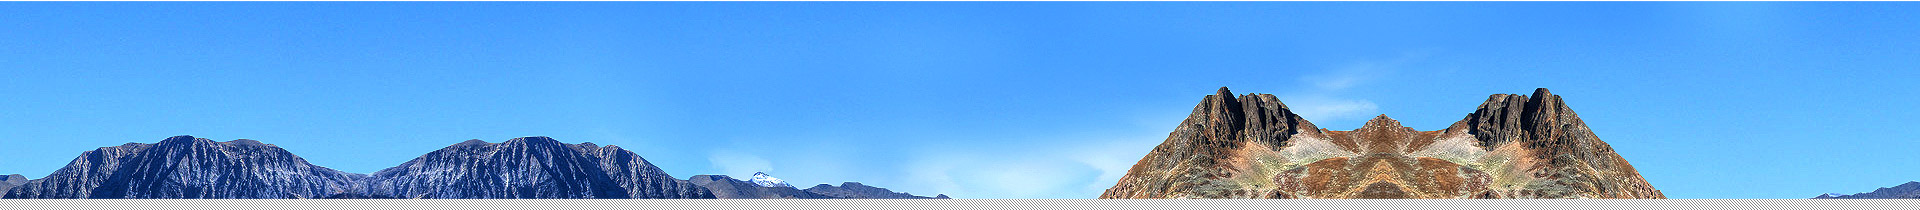
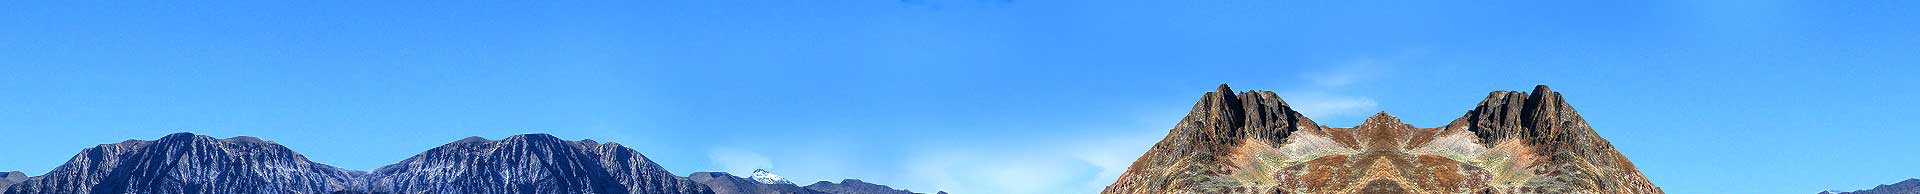
toububanner

Changed region(s): [[0.0, 0.4021, 1.0, 1.0], [0.0, 0.0, 1.0, 0.0309], [0.5, 0.7732, 0.5312, 0.8351]]

diff --git a/css/basalt.css b/css/basalt.css
@@ -1,1 +1,1 @@
-.materi{padding-top:10px}.material-a{float:right;padding-top:30px;display:none}@media (min-width: 600px){.material-a{display:block}}.material-a a{padding-left:10px;padding-right:10px}.banner img{width:100%}.material-b{background:#004286;color:#fff;line-height:40px}@media (max-width: 1199px){.material-b{line-height:24px;padding-top:10px;padding-bottom:10px}}.material-b li{display:inline}.material-b li a{padding-left:2px;padding-right:2px;color:#fff}.material-b li a:hover{color:#ef011c}.material-c{padding-top:18px;padding-bottom:25px;background:#f7f7f7}.material-c .material-c-1{padding-bottom:10px}@media (min-width: 1000px){.material-c .material-c-1{text-align:right;padding-bottom:0;border-right:1px solid #dddddd}}.material-c .material-c-1 .daodu{font-size:40px;font-weight:bold;color:#cd0a0a;line-height:50px}@media (min-width: 1000px) and (max-width: 1199px){.material-c .material-c-1 .intro{line-height:50px}}.material-d{padding-top:16px}@media (min-width: 1000px){.material-d{padding-top:25px}}.material-d h1 span{color:#cd0a0a}.material-d .gongyi{padding-top:15px;padding-bottom:10px}.material-d span{font-weight:bold}.material-d .jieduan{padding-top:8px;padding-bottom:15px}.material-d .shebei .shebei-a{display:none}@media (min-width: 450px){.material-d .shebei{background:#f1f1f1;margin-bottom:12px;height:147px}.material-d .shebei .shebei-a{background:#E85005;color:#ffffff;width:10%;float:left;text-align:center;height:147px;padding-top:36px;display:block}.material-d .shebei .shebei-b{width:30%;float:left;padding-top:20px}.material-d .shebei .shebei-b img{margin:0 auto;display:block}.material-d .shebei .shebei-b p{text-align:center;padding-top:15px}}@media (max-width: 449px){.material-d .shebei .shebei-b{padding-bottom:7px;width:33.3333%;float:left}}.material-d .shebei .shebei-a-1{display:block;padding-bottom:10px}.material-d .shebei .shebei-a-1 p{font-weight:bold}@media (min-width: 450px){.material-d .shebei .shebei-a-1{display:none}}.material-d .material-d-1 img{margin:0 auto;display:block}@media (min-width: 1000px) and (max-width: 1199px){.material-d .material-d-1 img{width:100%}}@media (max-width: 599px){.material-d .material-d-1 img{width:100%}}.material-e h1{padding-top:10px;padding-bottom:15px}.material-e h3,.material-e h4{padding-bottom:6px;padding-top:12px}.material-e .case-1,.material-e .case-2{margin-bottom:20px;margin-top:5px}.material-e .case-1 img,.material-e .case-2 img{width:100%}.material-f{background:#f1f1f1;padding-top:15px;margin-top:20px;padding-bottom:30px}.material-f h1{padding-bottom:15px;padding-top:10px}@media (min-width: 1200px){.material-f h1{padding-bottom:30px}}.material-f form .province,.material-f form .city{width:50%;float:left}.material-f form .province #province,.material-f form .province #city,.material-f form .city #province,.material-f form .city #city{width:90%}.material-f form .province #city,.material-f form .city #city{float:right}.material-f form .button{background:#ef2416;color:#ffffff}.material-f .pro-line h3{padding-bottom:20px}.material-f .pro-line p{line-height:34px}.material-g{padding-top:20px}.material-g span{color:#cd0a0a}.material-g h1{padding-bottom:15px}.material-g p{line-height:34px}.material-r{padding-top:20px;padding-bottom:10px}.material-r span{color:#cd0a0a}.material-r h1{padding-bottom:15px}.material-r img{margin:0 auto;display:block;width:100%}.material-r p{text-align:center;padding-top:5px;padding-bottom:10px}footer{background:#000000;color:#ffffff}footer p{line-height:30px;text-align:center;padding-top:10px;padding-bottom:10px}.kzha-table td{border:1px solid #16dbab;color:#16dbab;text-align:center;height:36px}.kzha-table tr:hover{background:#d8b66e}.kzha-table tr:hover td{color:#000000}
+.materi{padding-top:10px}.material-a{float:right;padding-top:30px;display:none}@media (min-width: 600px){.material-a{display:block}}.material-a a{padding-left:10px;padding-right:10px}.banner{background:url("../img-merge/banner.jpg");height:194px;position:relative;left:50%;transform:translateX(-50%);-webkit-transform:translateX(-50%);margin:0 auto;display:block}.contact{display:none;float:right;width:325px;height:194px;background:rgba(0,0,0,0.1);color:#ffffff;padding-left:30px;padding-top:30px}@media (min-width: 1000px){.contact{display:block}}.contact a{color:#ffffff}.contact .tel{font-size:26px;font-weight:bold;padding-top:20px}.contact .online{margin-top:30px;background:#ff453e;width:157px;padding-top:6px;padding-bottom:6px;text-align:center;border-radius:7px}.banner img{position:relative;left:50%;transform:translateX(-50%)}.banner .banner-wenzi h1{color:#ffffff;padding-top:16px;font-size:20px}@media (min-width: 500px){.banner .banner-wenzi h1{font-size:24px}}@media (min-width: 760px){.banner .banner-wenzi h1{padding-top:12px;font-size:32px}}@media (min-width: 1000px) and (max-width: 1199px){.banner .banner-wenzi h1{font-size:28px}}.banner .banner-wenzi h1 span{color:#f3f953}.banner .banner-wenzi .locat{color:#ffffff;padding-top:16px;font-size:14px}.banner .banner-wenzi .locat a{color:#ffffff}.banner .banner-wenzi .locat a:hover{color:#ffffff}.banner .banner-wenzi .america{color:#ffffff;padding-top:20px;font-size:16px}@media (min-width: 520px){.banner .banner-wenzi .america{padding-top:12px}}@media (min-width: 760px){.banner .banner-wenzi .america{font-size:16px;letter-spacing:6px}}.material-b{background:#004286;color:#fff;line-height:40px}@media (max-width: 1199px){.material-b{line-height:24px;padding-top:10px;padding-bottom:10px}}.material-b li{display:inline}.material-b li a{padding-left:2px;padding-right:2px;color:#fff}.material-b li a:hover{color:#ef011c}.material-c{padding-top:18px;padding-bottom:25px;background:#f7f7f7}.material-c .material-c-1{padding-bottom:10px}@media (min-width: 1000px){.material-c .material-c-1{text-align:left;padding-bottom:0}}.material-c .material-c-1 .daodu{font-size:40px;font-weight:bold;color:#cd0a0a;line-height:50px}@media (min-width: 1000px) and (max-width: 1199px){.material-c .material-c-1 .intro{line-height:50px}}.material-d{padding-top:16px}@media (min-width: 1000px){.material-d{padding-top:25px}}.material-d h1 span{color:#cd0a0a}.material-d .gongyi{padding-top:15px;padding-bottom:10px}.material-d span{font-weight:bold}.material-d .jieduan{padding-top:8px;padding-bottom:15px}.material-d .shebei .shebei-a{display:none}@media (min-width: 450px){.material-d .shebei{background:#f1f1f1;margin-bottom:12px;height:147px}.material-d .shebei .shebei-a{background:#E85005;color:#ffffff;width:10%;float:left;text-align:center;height:147px;padding-top:36px;display:block}.material-d .shebei .shebei-b{width:30%;float:left;padding-top:20px}.material-d .shebei .shebei-b img{margin:0 auto;display:block}.material-d .shebei .shebei-b p{text-align:center;padding-top:15px}}@media (max-width: 449px){.material-d .shebei .shebei-b{padding-bottom:7px;width:33.3333%;float:left}}.material-d .shebei .shebei-a-1{display:block;padding-bottom:10px}.material-d .shebei .shebei-a-1 p{font-weight:bold}@media (min-width: 450px){.material-d .shebei .shebei-a-1{display:none}}.material-d .material-d-1 img{margin:0 auto;display:block}@media (min-width: 1000px) and (max-width: 1199px){.material-d .material-d-1 img{width:100%}}@media (max-width: 599px){.material-d .material-d-1 img{width:100%}}.material-e h1{padding-top:10px;padding-bottom:15px}.material-e h3,.material-e h4{padding-bottom:6px;padding-top:12px}.material-e .case-1,.material-e .case-2{margin-bottom:20px;margin-top:5px}.material-e .case-1 img,.material-e .case-2 img{width:100%}.material-f{background:#f1f1f1;padding-top:15px;margin-top:20px;padding-bottom:30px}.material-f h1{padding-bottom:15px;padding-top:10px}@media (min-width: 1200px){.material-f h1{padding-bottom:30px}}.material-f form .province,.material-f form .city{width:50%;float:left}.material-f form .province #province,.material-f form .province #city,.material-f form .city #province,.material-f form .city #city{width:90%}.material-f form .province #city,.material-f form .city #city{float:right}.material-f form .button{background:#ef2416;color:#ffffff}.material-f .pro-line h3{padding-bottom:20px}.material-f .pro-line p{line-height:34px}.material-g{padding-top:20px}.material-g span{color:#cd0a0a}.material-g h1{padding-bottom:15px}.material-g p{line-height:34px}.material-r{padding-top:20px;padding-bottom:10px}.material-r span{color:#cd0a0a}.material-r h1{padding-bottom:15px}.material-r img{margin:0 auto;display:block;width:100%}.material-r p{text-align:center;padding-top:5px;padding-bottom:10px}footer{background:#000000;color:#ffffff}footer p{line-height:30px;text-align:center;padding-top:10px;padding-bottom:10px}.kzha-table td{border:1px solid #16dbab;color:#16dbab;text-align:center;height:36px}.kzha-table tr:hover{background:#d8b66e}.kzha-table tr:hover td{color:#000000}

diff --git a/sass/basalt.sass b/sass/basalt.sass
@@ -10,14 +10,82 @@
         padding-left: 10px
         padding-right: 10px
 .banner
+    background: url("../img-merge/banner.jpg")
+    height: 194px
+    position: relative
+    left: 50%
+    transform: translateX(-50%)
+    -webkit-transform: translateX(-50%)
+    margin: 0 auto
+    display: block
+.contact
+    display: none
+    @media (min-width: 1000px)
+        display: block
+    float: right
+    width: 325px
+    height: 194px
+    background: rgba(0,0,0,0.1)
+    color: #ffffff
+    padding-left: 30px
+    padding-top: 30px
+    a
+        color: #ffffff
+    .tel
+        font-size: 26px
+        font-weight: bold
+        padding-top: 20px
+    .online
+        margin-top: 30px
+        background: #ff453e
+        width: 157px
+        padding-top: 6px
+        padding-bottom: 6px
+        text-align: center
+        border-radius: 7px
+.banner
     img
-        width: 100%
+        position: relative
+        left: 50%
+        transform: translateX(-50%)
+    .banner-wenzi
+        h1
+            color: #ffffff
+            padding-top: 16px
+            font-size: 20px
+            @media (min-width: 500px)
+                font-size: 24px
+            @media (min-width: 760px)
+                padding-top: 12px
+                font-size: 32px
+            @media (min-width: 1000px) and (max-width: 1199px)
+                font-size: 28px
+            span
+                color: #f3f953
+        .locat
+            // display: none
+            // @media (min-width: 760px)
+            //     display: block
+            color: #ffffff
+            padding-top: 16px
+            font-size: 14px
+            a
+                color: #ffffff
+                &:hover
+                    color: #ffffff
+        .america
+            color: #ffffff
+            padding-top: 20px
+            font-size: 16px
+            @media (min-width: 520px)
+                padding-top: 12px
+            @media (min-width: 760px)
+                font-size: 16px
+                letter-spacing: 6px
 .material-b
     background: #004286
     color: #fff
     line-height: 40px
-    // z-index: 100
-    // width: 100%
     @media (max-width: 1199px)
         line-height: 24px
         padding-top: 10px
@@ -39,9 +107,9 @@
     .material-c-1
         padding-bottom: 10px
         @media (min-width: 1000px)
-            text-align: right
+            text-align: left
             padding-bottom: 0
-            border-right: 1px solid #dddddd
+            // border-right: 1px solid #dddddd
         
         .daodu
             font-size: 40px

diff --git a/index.html b/index.html
@@ -51,7 +51,22 @@
     </div>
     <div class="banner">
         <!-- <img src="./img-merge/banner.jpg" alt=""> -->
-        <img class="res img-res" data-xl="./img-merge/basalt_banner_l.jpg" data-xs="./img-merge/basalt_banner_s.jpg" data-xm="./img-merge/basalt_banner_m.jpg" data-xb="./img-merge/basalt_banner.jpg">
+        <!-- <img class="res " data-xl="./img-merge/banner.jpg" data-xs="./img-merge/banner.jpg" data-xm="./img-merge/banner.jpg" data-xb="./img-merge/banner.jpg"> -->
+        <div class="container banner-wenzi">
+            <div class="line-big">
+                    <div class="xm7">
+                            <p class="locat">当前位置： <a href="/" target="_blank">黎明重工</a> > <a href="/line_case/" target="_blank">解决方案</a> > 全球矿山机械行业价值缔造者</p>
+                            <h1>黎明重工<span>玄武岩</span>破碎机堪称砂石骨料整形专家</h1>
+                            <p class="america">引进美国技术&nbsp;&nbsp;多种腔形&nbsp;&nbsp;易于维修</p>
+                    </div>
+                    <div class="xm5"><div class="contact">
+                            <p>了解更详细信息，请致电</p>
+                            <p class="tel">400-655-1888</p>
+                            <a href="javascript:openZoosUrl('chatwin');"><p class="online">在线洽谈</p></a>
+                        </div></div>
+            </div>
+            
+        </div>
     </div>
     <div class="material-b flow" id="flow">
         <ul class="container">
